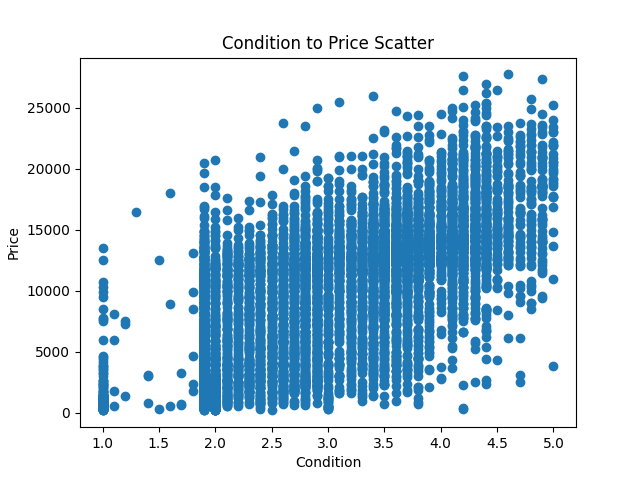
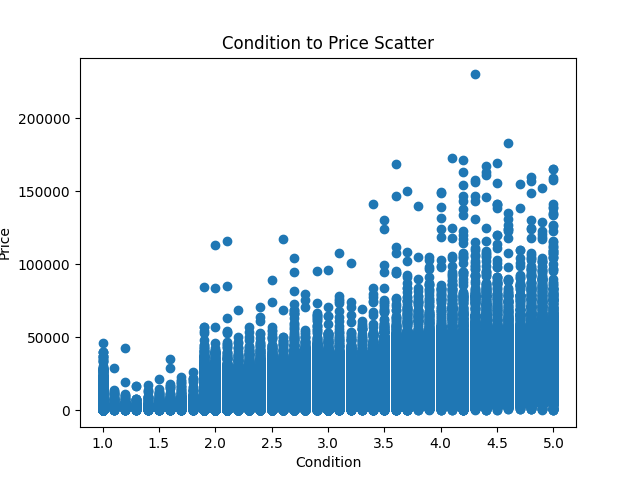
Rewrote plotting.py to add more images.

diff --git a/Final Project/plotting.py b/Final Project/plotting.py
@@ -1,13 +1,11 @@
 from preprocess import *
 import pandas
 import matplotlib.pyplot as plt
+import seaborn
 
 
 def plot_for_linearity(path):
     data = pandas.read_csv(path)
-
-    # Trim data to be of only one car type (Allows for better check of whether data is linear or not)
-    data = data[data['model'].str.contains('accord')]
 
     y = data['sellingprice']
 
@@ -43,6 +41,23 @@ def plot_for_linearity(path):
     plt.savefig('images/mmr_to_price.png')
     plt.close()
 
+    #Condensed Linearity Scatter
+    x_vars = ['year', 'condition', 'odometer', 'mmr']
+    y_vars = ['sellingprice']
+    g = seaborn.PairGrid(pandas.read_csv(TRIMMED_DATA_PATH), x_vars=x_vars, y_vars=y_vars, height=3)
+    g.map(seaborn.scatterplot)
+    plt.savefig('images/linearity.png')
+    plt.close()
+
+
+def plot_heatmap(path):
+    data = pandas.read_csv(path)
+    corr = data.corr()
+    seaborn.heatmap(corr, annot=True, cmap='RdYlGn')
+    plt.savefig('images/heatmap.png')
+    plt.close()
+
 
 if __name__ == '__main__':
     plot_for_linearity(TRIMMED_DATA_PATH)
+    plot_heatmap(TRIMMED_DATA_PATH)
